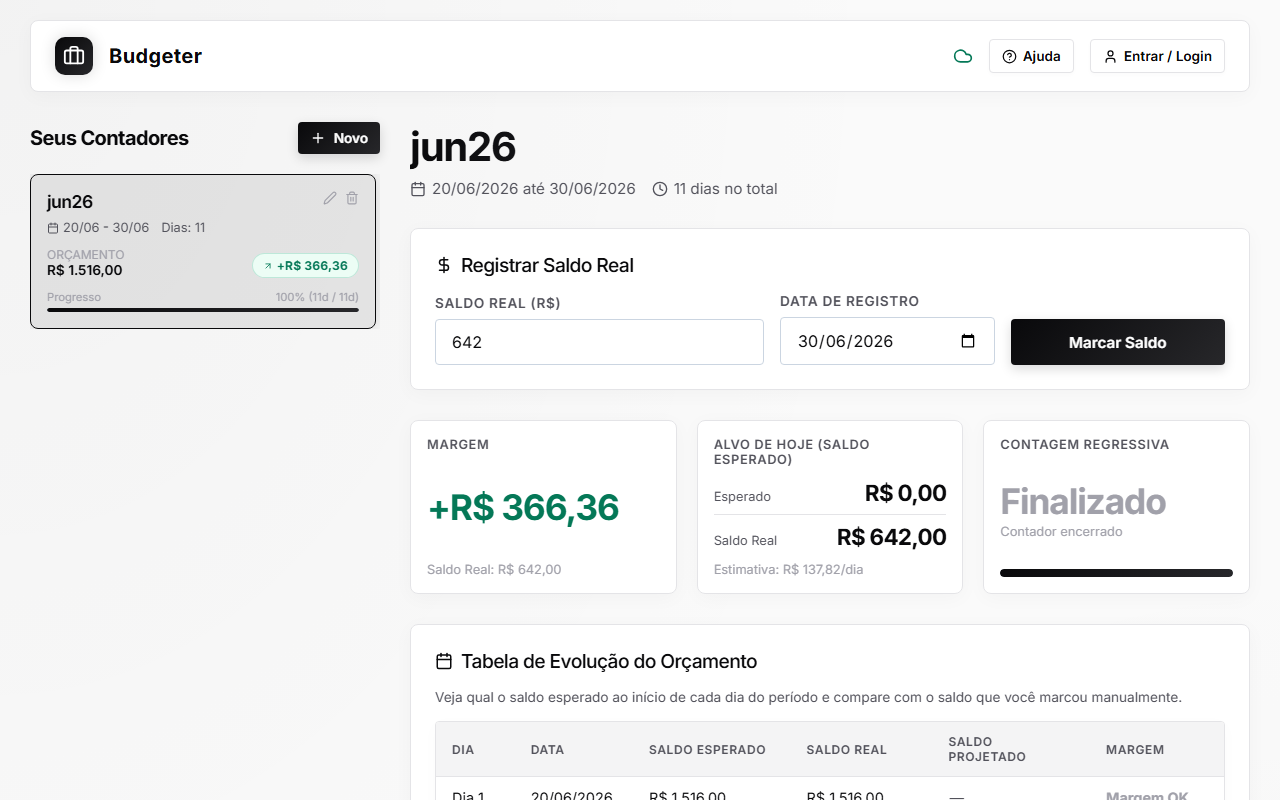
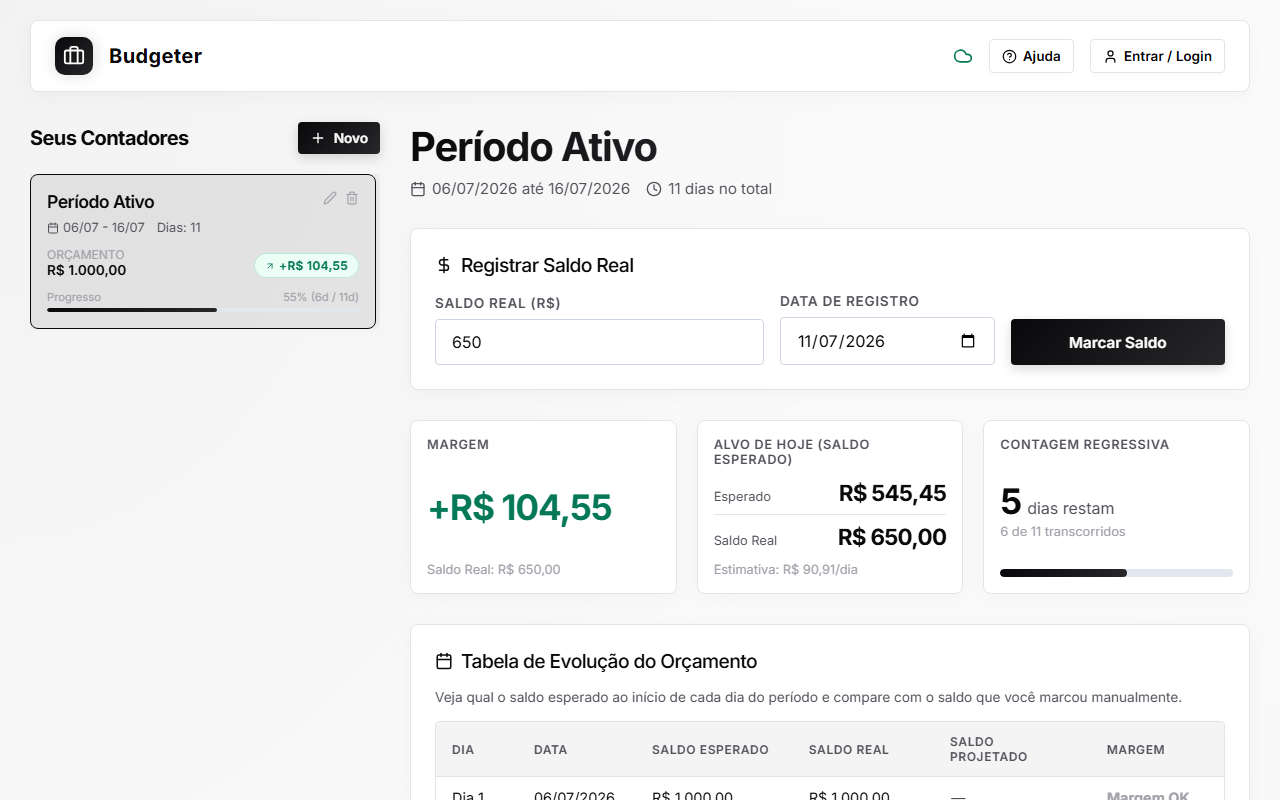
test: make mock period seed dynamic relative to current execution time

diff --git a/tests/seed.spec.ts b/tests/seed.spec.ts
@@ -1,43 +1,81 @@
 import { test, expect } from '@playwright/test';
 
+// Helper to generate dynamic period data that is always in progress
+function generateDynamicPeriod(opts: { id: string; name: string; isNegativeOnly?: boolean }) {
+  const today = new Date();
+  
+  const formatDate = (d: Date) => {
+    const year = d.getFullYear();
+    const month = String(d.getMonth() + 1).padStart(2, '0');
+    const day = String(d.getDate()).padStart(2, '0');
+    return `${year}-${month}-${day}`;
+  };
+
+  const start = new Date(today);
+  start.setDate(today.getDate() - 5); // starts 5 days ago
+  
+  const end = new Date(today);
+  end.setDate(today.getDate() + 5); // ends 5 days from now
+  
+  const history: Record<string, number> = {};
+  
+  const initialBudget = 1000;
+  const totalDays = 11; // -5 to +5 inclusive is 11 days
+  const dailyBudget = initialBudget / (totalDays - 1); // 100 per day
+  
+  let currentBalance = initialBudget;
+  for (let i = 0; i <= 5; i++) {
+    const d = new Date(start);
+    d.setDate(start.getDate() + i);
+    const expected = initialBudget - i * dailyBudget;
+    
+    let margin;
+    if (opts.isNegativeOnly) {
+      margin = -50 - i * 30; // always negative
+    } else {
+      // starts negative, then crosses to positive (similar to jun26)
+      if (i === 0) margin = 0;
+      else if (i === 1) margin = -20;
+      else if (i === 2) margin = 30;
+      else if (i === 3) margin = 80;
+      else if (i === 4) margin = 120;
+      else margin = 150;
+    }
+    
+    currentBalance = Math.round(expected + margin);
+    history[formatDate(d)] = currentBalance;
+  }
+  
+  return {
+    id: opts.id,
+    name: opts.name,
+    startDate: formatDate(start),
+    endDate: formatDate(end),
+    initialBudget,
+    finalBudget: 0,
+    currentBalance,
+    currentBalanceDate: formatDate(today),
+    balanceHistory: history,
+    createdAt: new Date().toISOString(),
+    userId: "teste"
+  };
+}
+
 test.describe('Dashboard Seed & Visual Check', () => {
   test('inject data and capture chart', async ({ page }) => {
-    // Inject budget data into localStorage before loading the page
-    await page.addInitScript(() => {
-      const mockPeriod = {
-        id: "9DImpGbIsCAjM4tNhP48",
-        name: "jun26",
-        startDate: "2026-06-20",
-        endDate: "2026-06-30",
-        initialBudget: 1516,
-        finalBudget: 0,
-        currentBalance: 642,
-        currentBalanceDate: "2026-06-29",
-        balanceHistory: {
-          "2026-06-20": 1516,
-          "2026-06-21": 1350,
-          "2026-06-22": 1300,
-          "2026-06-23": 1160,
-          "2026-06-24": 1118,
-          "2026-06-25": 1118,
-          "2026-06-26": 1026,
-          "2026-06-27": 858,
-          "2026-06-28": 682,
-          "2026-06-29": 642
-        },
-        createdAt: "2026-06-20T20:39:10.285Z",
-        userId: "teste"
-      };
+    const mockPeriod = generateDynamicPeriod({ id: "active-period-id", name: "Período Ativo" });
 
-      window.localStorage.setItem('budgeter_periods', JSON.stringify([mockPeriod]));
-      window.localStorage.setItem('budgeter_selected_period_id', '9DImpGbIsCAjM4tNhP48');
-    });
+    // Inject budget data into localStorage before loading the page
+    await page.addInitScript((data) => {
+      window.localStorage.setItem('budgeter_periods', JSON.stringify([data]));
+      window.localStorage.setItem('budgeter_selected_period_id', data.id);
+    }, mockPeriod);
 
     // Go to the dashboard
     await page.goto('/');
 
     // Verify period title is visible
-    await expect(page.locator('h1')).toContainText('jun26');
+    await expect(page.locator('h1')).toContainText('Período Ativo');
 
     // Wait for the chart to render (Recharts is svg-based)
     await page.waitForSelector('.recharts-responsive-container');
@@ -51,37 +89,13 @@ test.describe('Dashboard Seed & Visual Check', () => {
   });
 
   test('inject negative-only data and capture chart', async ({ page }) => {
-    // Inject budget data with negative margins into localStorage before loading the page
-    await page.addInitScript(() => {
-      const mockPeriod = {
-        id: "neg-only-id",
-        name: "jul26_neg",
-        startDate: "2026-07-01",
-        endDate: "2026-07-31",
-        initialBudget: 1000,
-        finalBudget: 0,
-        currentBalance: 150,
-        currentBalanceDate: "2026-07-11",
-        balanceHistory: {
-          "2026-07-01": 900,
-          "2026-07-02": 800,
-          "2026-07-03": 700,
-          "2026-07-04": 500,
-          "2026-07-05": 450,
-          "2026-07-06": 400,
-          "2026-07-07": 350,
-          "2026-07-08": 300,
-          "2026-07-09": 250,
-          "2026-07-10": 200,
-          "2026-07-11": 150
-        },
-        createdAt: "2026-07-01T12:00:00.000Z",
-        userId: "teste"
-      };
+    const mockPeriod = generateDynamicPeriod({ id: "neg-only-id", name: "jul26_neg", isNegativeOnly: true });
 
-      window.localStorage.setItem('budgeter_periods', JSON.stringify([mockPeriod]));
-      window.localStorage.setItem('budgeter_selected_period_id', 'neg-only-id');
-    });
+    // Inject budget data with negative margins into localStorage before loading the page
+    await page.addInitScript((data) => {
+      window.localStorage.setItem('budgeter_periods', JSON.stringify([data]));
+      window.localStorage.setItem('budgeter_selected_period_id', data.id);
+    }, mockPeriod);
 
     // Go to the dashboard
     await page.goto('/');
@@ -110,42 +124,19 @@ test.describe('Dashboard Seed & Visual Check', () => {
     });
     const page = await context.newPage();
 
-    // Inject budget data into localStorage before loading the page
-    await page.addInitScript(() => {
-      const mockPeriod = {
-        id: "9DImpGbIsCAjM4tNhP48",
-        name: "jun26",
-        startDate: "2026-06-20",
-        endDate: "2026-06-30",
-        initialBudget: 1516,
-        finalBudget: 0,
-        currentBalance: 642,
-        currentBalanceDate: "2026-06-29",
-        balanceHistory: {
-          "2026-06-20": 1516,
-          "2026-06-21": 1350,
-          "2026-06-22": 1300,
-          "2026-06-23": 1160,
-          "2026-06-24": 1118,
-          "2026-06-25": 1118,
-          "2026-06-26": 1026,
-          "2026-06-27": 858,
-          "2026-06-28": 682,
-          "2026-06-29": 642
-        },
-        createdAt: "2026-06-20T20:39:10.285Z",
-        userId: "teste"
-      };
+    const mockPeriod = generateDynamicPeriod({ id: "active-period-id", name: "Período Ativo" });
 
-      window.localStorage.setItem('budgeter_periods', JSON.stringify([mockPeriod]));
-      window.localStorage.setItem('budgeter_selected_period_id', '9DImpGbIsCAjM4tNhP48');
-    });
+    // Inject budget data into localStorage before loading the page
+    await page.addInitScript((data) => {
+      window.localStorage.setItem('budgeter_periods', JSON.stringify([data]));
+      window.localStorage.setItem('budgeter_selected_period_id', data.id);
+    }, mockPeriod);
 
     // Go to the dashboard
     await page.goto('/');
 
     // Verify period title is visible
-    await expect(page.locator('h1')).toContainText('jun26');
+    await expect(page.locator('h1')).toContainText('Período Ativo');
 
     // Wait for the chart to render (Recharts is svg-based)
     await page.waitForSelector('.recharts-responsive-container');